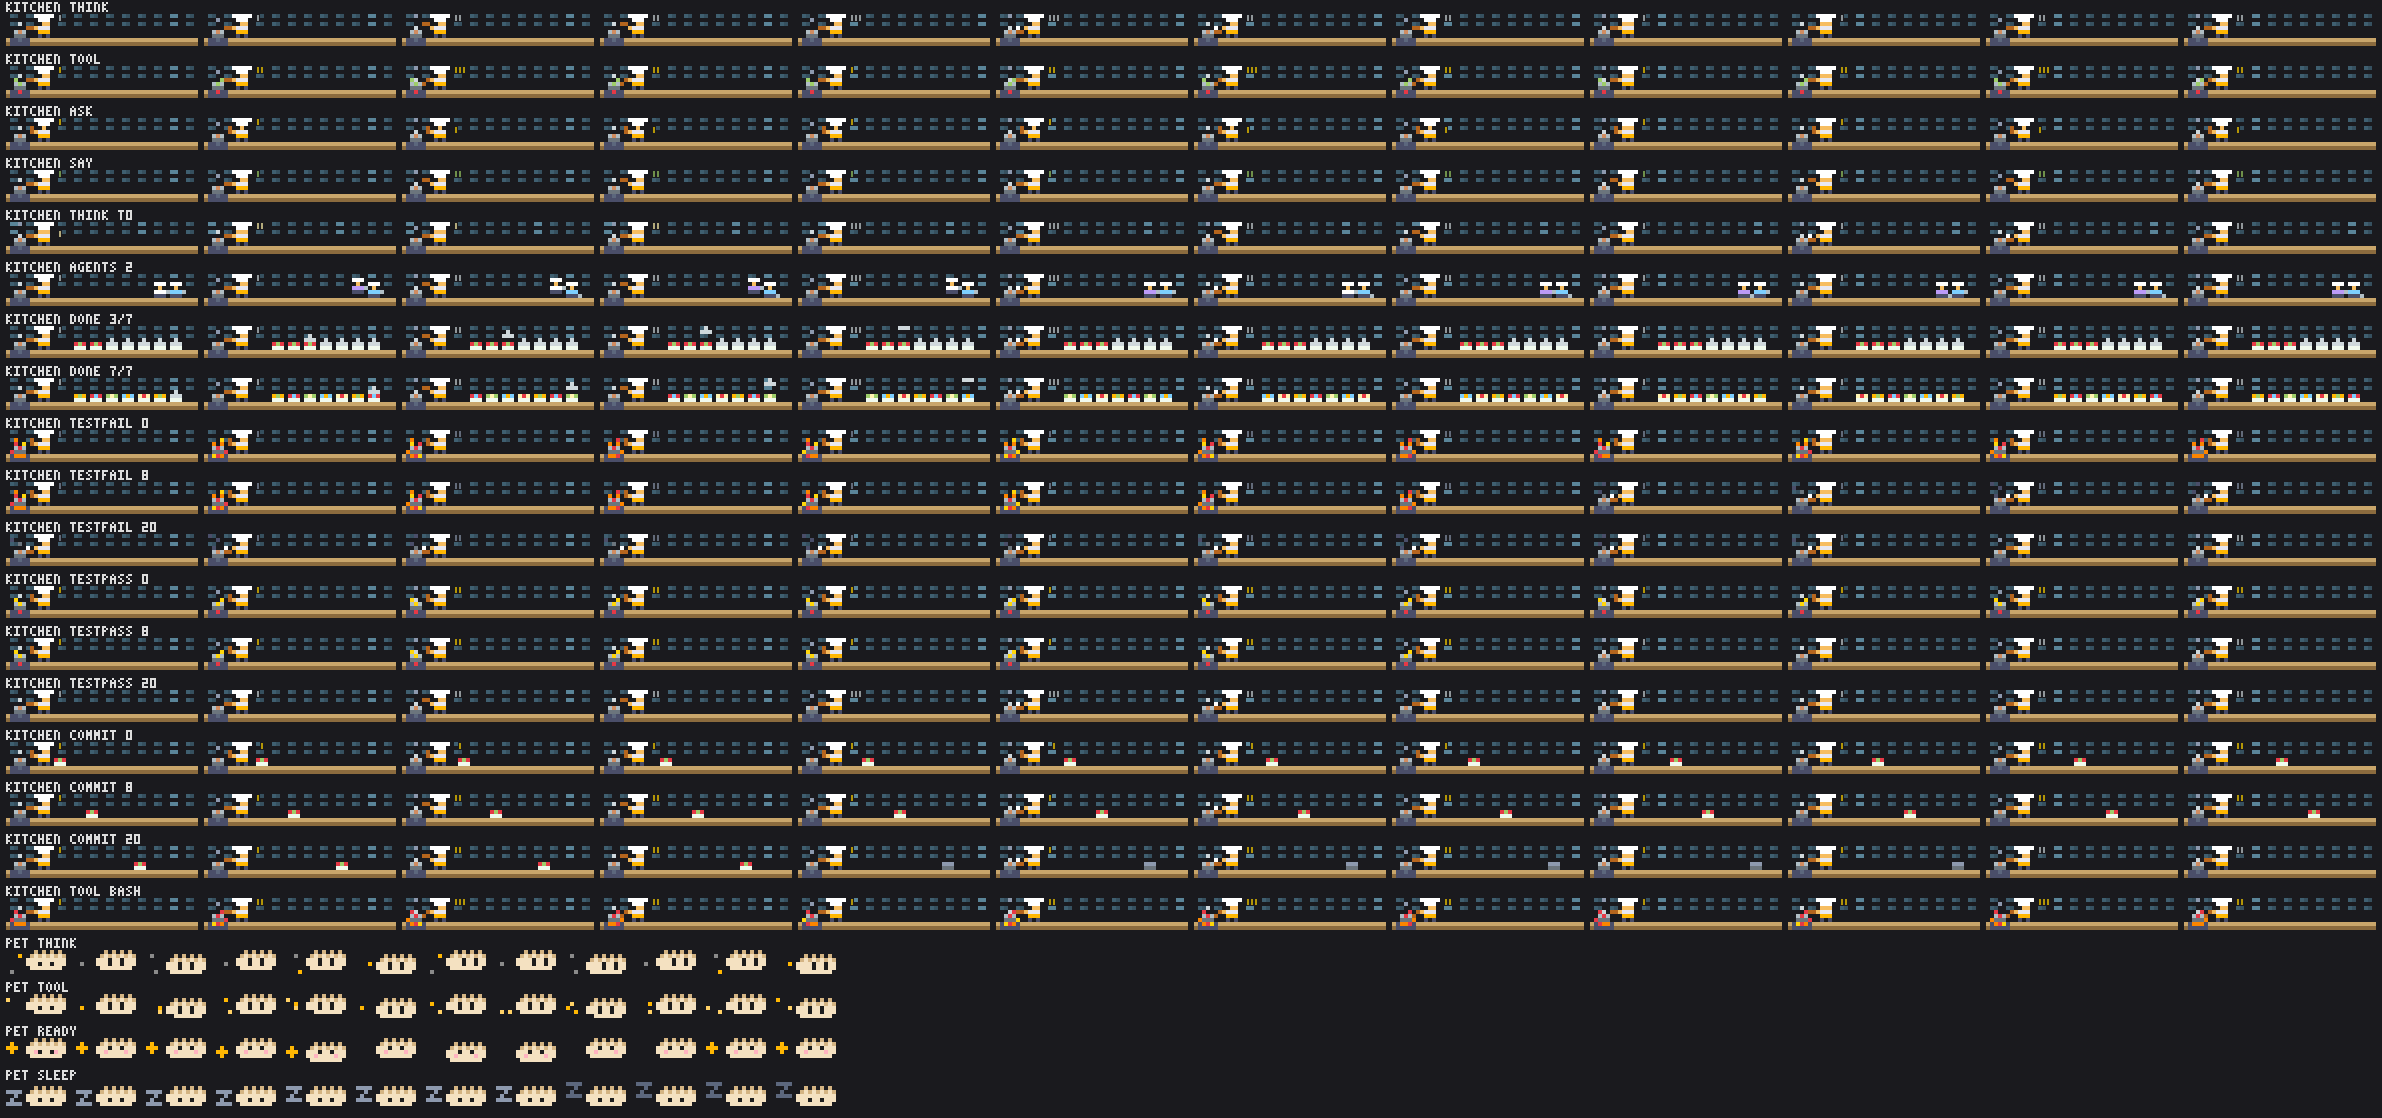
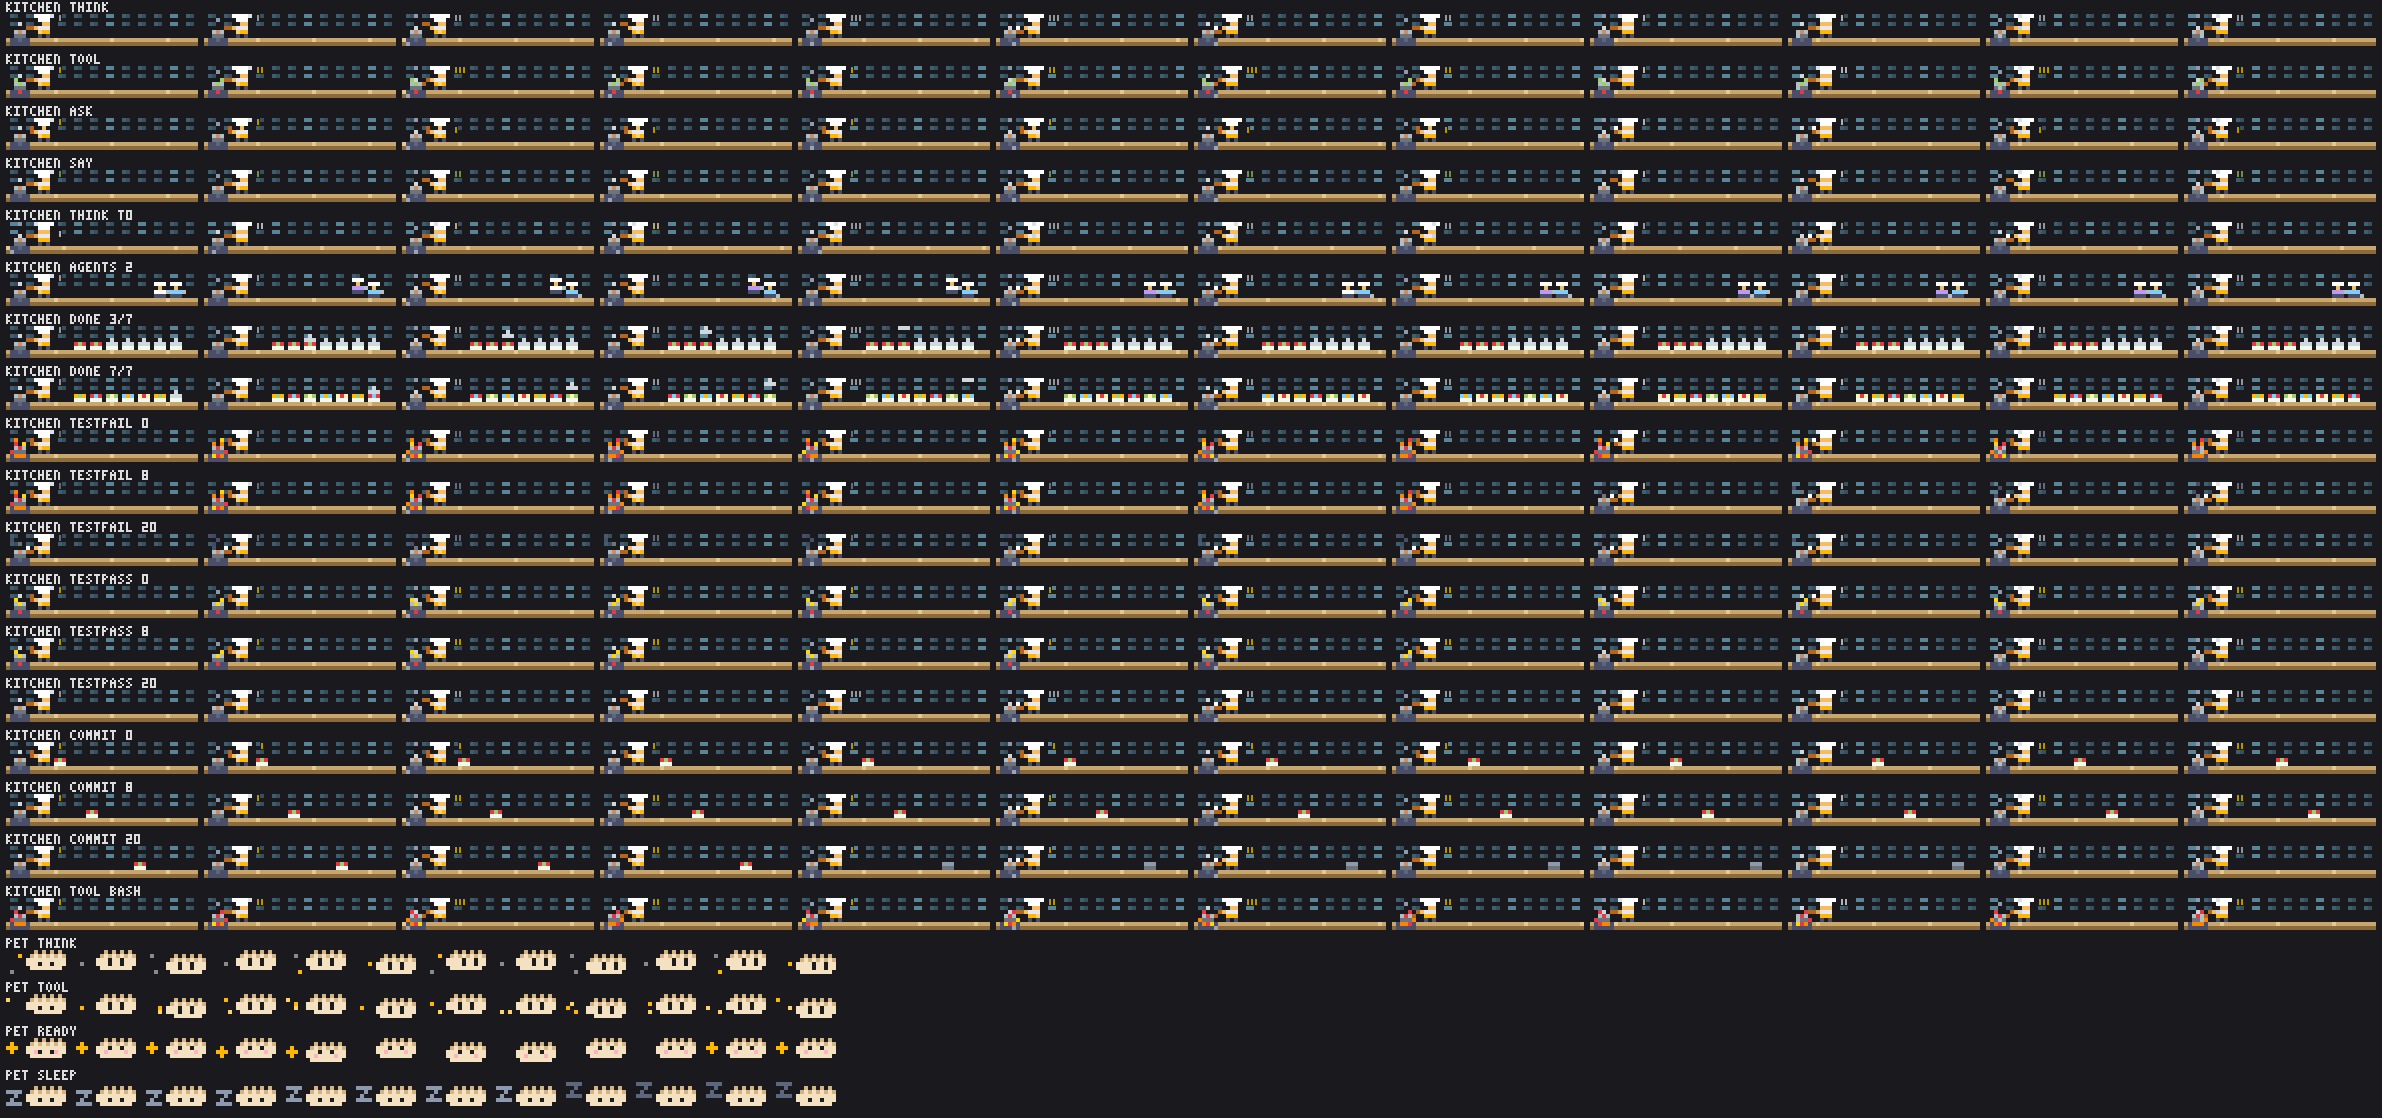
showtime: final review fixes C (9b) — every kitchen cell moves
- Lit wall tiles every four tiles, rolling together, so every tile lights within sixteen frames.
- A glint steps along the counter top a column a frame (one every 14 columns); glints on the stove
  front and the pot base, light catching the chef's hat, jacket and apron, the raised spoon and the
  sign's mark (two frames in sixteen). Colour only: no ink moves.
- Static-cell check (16 frames, w=48 and w=80, think/tool/ask/say/wait): 0 static ink cells.

diff --git a/showtime/hooks/themes/kitchen.ts b/showtime/hooks/themes/kitchen.ts
@@ -2,7 +2,8 @@
 //
 // The scene: a chef in an amber apron (#ffb703) at a stove in the left of the band, a pot on the
 // burner with steam rising from it in every act, a tiled wall behind (tiles two cells wide and a
-// pixel tall, grout between and under them, a lit tile rolling across) and a counter along the bottom. He taps a
+// pixel tall, grout between and under them, lit tiles rolling across) and a counter along the bottom,
+// glints stepping along it (light catches the stove, the pot, his hat, jacket and apron too). He taps a
 // spoon on the pot's side on a twelve-frame cycle while thinking, holds it up and looks out while
 // asking, waves it while saying, lets it sink while waiting, and blinks; a sign right of his hat reads
 // the act (dots, a bobbing `?`, notes, the tool's mark). In a tool the pot boils: the soup takes the
@@ -39,7 +40,12 @@ type Pose = 'level' | 'up' | 'sunk'
 const TILE_PITCH = 4
 const TILE_W = 2
 const WALL_PX = 4
-const SHIMMER_PERIOD = 8
+const SHIMMER_PERIOD = 4
+/** The counter's glints: one every COUNTER_GLINT columns along its top, stepping right a column a frame. */
+const COUNTER_GLINT = 14
+const COUNTER_LIT = '#e6c98f'
+/** Glints on the stove, and the light catching the chef's hat, jacket and apron. */
+const [STOVE_LIT, HAT_SHADE, JACKET_SHADE, AMBER_LIT, SKIN_SHADE] = ['#9aa5b1', '#d8e2e8', '#c9d6df', '#ffd166', '#e0a84e']
 const STOVE_X = 1
 const POT_X = 2
 const STEAM_X = 3
@@ -139,7 +145,8 @@ const SPOON_ROWS: Record<Act, readonly number[]> = {
 }
 
 /** The wall: tiles two cells wide and a pixel tall in two rows, two columns of grout between and a
- * pixel row of grout under each, a lit tile rolling right one tile every four frames. */
+ * pixel row of grout under each, lit tiles every SHIMMER_PERIOD tiles rolling right one tile every four
+ * frames, so every tile lights once in sixteen frames. */
 function wall(cv: Canvas, t: number): void {
   for (let x = 0; x < cv.w; x++) {
     if (mod(x - 1, TILE_PITCH) >= TILE_W) continue
@@ -154,11 +161,15 @@ function wall(cv: Canvas, t: number): void {
  * while it boils, two tongues of flame over it in a fire. */
 function stove(cv: Canvas, t: number, boiling: boolean, flaming: boolean, soup: string, isFire: boolean): void {
   draw(cv, STOVE_X, COUNTER_Y, STOVE_ART, { G: STOVE, B: boiling || flaming ? RED : BURNER })
+  // A glint along the stove's front and the pot's base (colour only), a pixel a frame, then a rest: 14 frames.
+  const shine = mod(t, 14)
+  if (shine < 5) plot(cv, STOVE_X + shine, COUNTER_Y + 1, STOVE_LIT)
   if (flaming) {
     for (let i = 0; i < 3; i++) plot(cv, POT_X + i, COUNTER_Y, frame(FLAME, t + 2 * i + Math.floor(noise(t + i) * 2)))
     plot(cv, mod(t, 2) === 0 ? POT_X - 1 : POT_X + 3, PLATE_Y, frame(FLAME, t >> 1))
   }
   draw(cv, POT_X, POT_Y, POT, { S: STEEL, C: soup, B: STEEL_DARK })
+  if (shine >= 7 && shine < 10) plot(cv, POT_X + shine - 7, POT_Y + 1, STEEL)
   if (isFire) {
     plot(cv, POT_X, POT_Y - 1, frame(FLAME, t))
     plot(cv, POT_X + 2, POT_Y - 1, frame(FLAME, t + 2))
@@ -183,9 +194,15 @@ function steam(cv: Canvas, t: number, isSmoke: boolean): void {
 function chef(cv: Canvas, t: number, s: Signals, age: number, pose: Pose, blink: boolean): void {
   const colors = blink ? { ...CHEF_COLORS, E: SKIN } : CHEF_COLORS
   draw(cv, CHEF_X, 0, s.act === 'ask' ? CHEF_OUT : CHEF, colors)
+  // Light catching him (colour only): a crease along his hat, a fold down his jacket, a stripe along his apron,
+  // each a pixel stepping across on a sixteen-frame cycle.
+  const step = mod(t, 16) >> 1
+  if (step < 5) plot(cv, CHEF_X + step, 0, HAT_SHADE)
+  if (step < 4) plot(cv, CHEF_X + step, 3, step === 0 ? SKIN_SHADE : JACKET_SHADE)
+  if (step >= 4 && step < 7) plot(cv, CHEF_X + step - 3, 4, AMBER_LIT)
   if (pose === 'up') {
     plot(cv, HAND_X - 1, 3, SPOON)
-    plot(cv, HAND_X - 1, 2, SPOON)
+    plot(cv, HAND_X - 1, 2, mod(t, 16) < 2 ? WHITE : SPOON)   // the raised spoon's bowl catches the light
     return
   }
   const sy = pose === 'sunk' ? 4 : age < TURN_FRAMES ? 3 : frame(SPOON_ROWS[s.act], t)
@@ -281,10 +298,11 @@ export function kitchenScene(t: number, w: number, s: Signals): Grid {
   const soup = isFire ? RED : isPass ? GOLD : isTool ? TOOL_COLOR[s.tool ?? 'other'] : SOUP
   const pose: Pose = isFire || isPass || isBell || s.act === 'ask' ? 'up' : isSmoke ? 'sunk' : 'level'
 
-  // Layer 1: the wall with its rolling lit tile, and the counter along the bottom.
+  // Layer 1: the wall with its rolling lit tiles, and the counter along the bottom, glints stepping along its
+  // top (colour only: the counter fills its row).
   wall(cv, t)
   for (let x = 0; x < w; x++) {
-    plot(cv, x, COUNTER_Y, COUNTER_TOP)
+    plot(cv, x, COUNTER_Y, mod(x - t, COUNTER_GLINT) === 0 ? COUNTER_LIT : COUNTER_TOP)
     plot(cv, x, COUNTER_Y + 1, COUNTER_FRONT)
   }
   // Layer 2: the stove and the pot, the steam (smoke after a fire, none in it) rising from it.
@@ -298,7 +316,10 @@ export function kitchenScene(t: number, w: number, s: Signals): Grid {
   if (isCommit) goingOut(cv, s)
 
   const g = cells(cv)
-  const { text, c, row, dx } = sign(s, t, age, isFire || isSmoke, isPass, isCommit)
+  const sg = sign(s, t, age, isFire || isSmoke, isPass, isCommit)
+  const { text, row, dx } = sg
+  // The sign's mark glows white two frames in sixteen, so even its first glyph never holds still.
+  const c = mod(t, 16) < 2 ? WHITE : sg.c
   put(g, SIGN_X + dx, row, text, { c, b: s.act !== 'think' || isFire || isSmoke || isPass || isCommit })
   return g
 }
